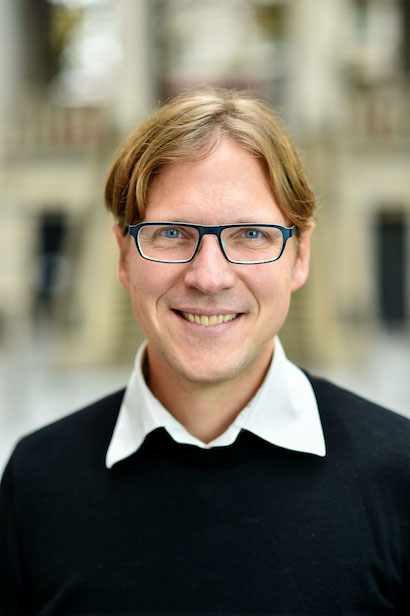
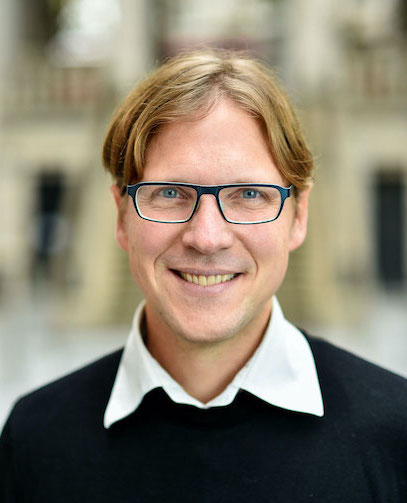
Trying to fill in key details.

diff --git a/lectures/1.1-Getting_Oriented.md b/lectures/1.1-Getting_Oriented.md
@@ -1,22 +1,44 @@
 # Getting Oriented
 
+---
+
 ## Key Information
 
-### Contacts
+### Staff Contacts
+
+| Name    | Jon Reades                                                   | Huanfa Chen                                                  |
+| ------- | ------------------------------------------------------------ | ------------------------------------------------------------ |
+| Email   | j.reades-at-ucl...                                           | huanfa.chen-at-ucl...                                        |
+| Slack   | @jreades                                                     | @Huanfa Chen                                                 |
+| Profile | [Jon's Profile](https://www.ucl.ac.uk/bartlett/casa/people/dr-jonathan-reades) | [Huanfa's Profile](https://www.ucl.ac.uk/bartlett/casa/people/huanfa-chen) |
+|         | ![40%](https://github.com/jreades/i2p/raw/master/lectures/img/Jon.jpg) |                                                              |
+
+
 
 ---
 
-### Timetable
+### ~~Timetable~~How We Are Running Things... 
+
+- **Lectures**: pre-recorded and I will do everything in my power to make them available to you the Thursday *before* the 'lecture'.
+- **Padlet**: available to you at the same time as the lecture. We will use this as the group whiteboard to help prioritise challenges, share triumphs, understand the readings.
+- ~~Lecture~~**Workshop**: Mondays 1–3pm. We will refer to the Padlet to guide the first half of the workshop. The second half will be 'live coding' in an **I do/We do** format.
+- **Practical**: *either* Mondays 4–6pm *or* Wednesdays 10am–12pm
 
 ---
 
 ### Assessments
 
+- **Timed Technical Skills Assessment @ 15%** (2 hours; 3 for those with *Inclusion Plans*): A time-limited coding test designed to test students' technical competency and understanding of concepts covered in the module.
+- **Structured Reflective Essay @ 25%** (1,000 words max): A structured reflective essay in which students are prompted to reflect on their understanding of the interactions between the technical and theoretical elements of the module.
+- **Briefing with Coding Elements @ 60%** (2,500 words max): A data-led briefing in which students present, for example, a technical analysis that might inform public policy or market research.
+
+^ Assessment #1 is also intended to give us a baseline for where students are at early in the course so that we can identify those in need of additional support.
+
 ---
 
 ### How to 'Ace' the Assessments?
 
-Study like it's a new language.
+*Study* like you're learning a new language. *Do* the readings. *Talk* to other students.
 
 ---
 
@@ -33,6 +55,26 @@ Study like it's a new language.
 ^ We'll talk about Slack more [later](./1,4-Tools_of_the_Trade.md)
 
 ---
+
+## Where Does I2P Fit?
+
+#### Geographic Information Systems (GIS)
+
+- Foundations of spatial analysis
+
+- Working with geo-data
+
+#### Quantitative Methods (QM)
+
+- The principles of working with data
+
+- Working with data
+
+#### Intro to Programming (I2P)
+
+- Applying concepts from GIS & QM
+
+- Developing programming skills from scratch
 
 ## What Are We Trying to Do?
 

diff --git a/lectures/1.4-Writing_Code.md b/lectures/1.4-Writing_Code.md
@@ -16,6 +16,8 @@ Notice that writing comes *last*.
 
 ![right 50%](/Users/jreades/Documents/git/i2p/lectures/img/Octocat.png)
 
+
+
 ---
 
 
